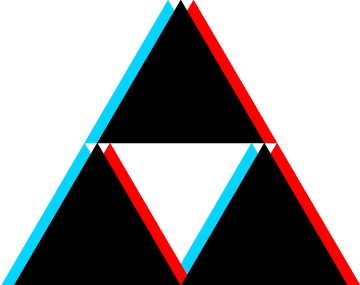
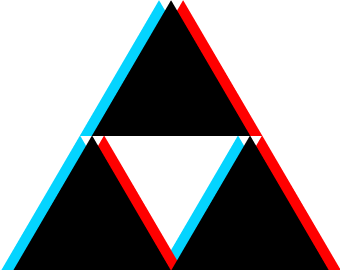
Image resize

diff --git a/css/style.css b/css/style.css
@@ -29,8 +29,8 @@ main {
     z-index: 0;
 }
 .github {
-    width: 360px;
-    height: 285px;
+    width: 340px;
+    height: 270px;
     position: absolute;
     z-index: 10;
     left: 50%;
@@ -42,5 +42,5 @@ main {
 }
 .github > * {
     position: absolute;
-    bottom: -65px;
+    bottom: -50px;
 }
